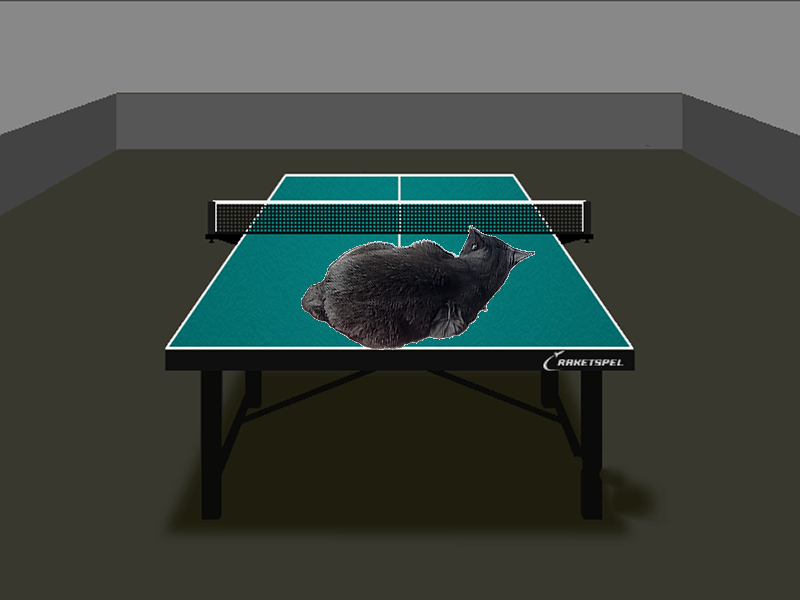
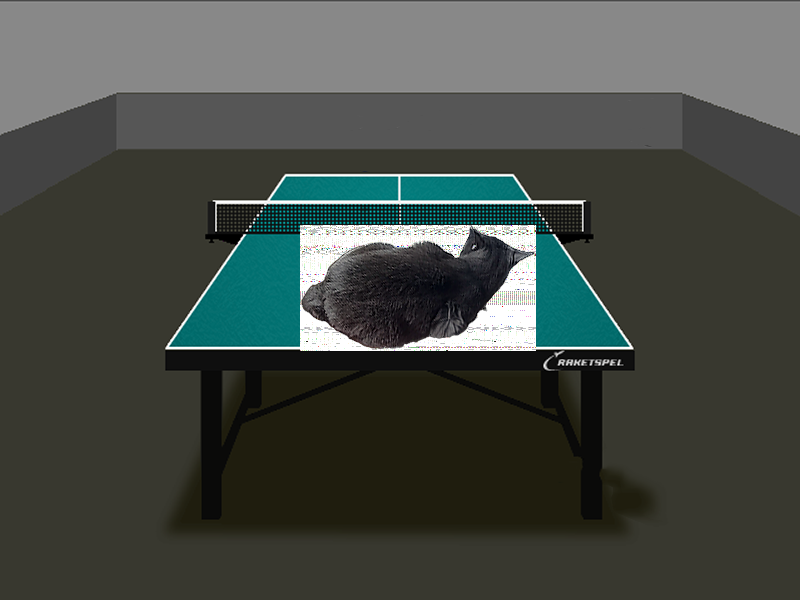
opt

Changed region(s): [[0.375, 0.36, 0.6875, 0.6]]

diff --git a/alpha.cpp b/alpha.cpp
@@ -4,51 +4,64 @@
 int alphaBlend(blend_t* blend)
 {
     if (blend == NULL) return 1;
+    
+    const unsigned char zero = 128; 
+
+    const __m128i _0   = _mm_set1_epi8(0);
+    const __m128i _255 = _mm_cvtepu8_epi16(_mm_set1_epi8(0xFF));
 
     for (int y = 0; y < blend->fr_hg; y++)
     {
-        if (y + blend->y_pos >= blend->bk_hg) break;
-
-        for (int x = 0; x < blend->fr_wd; x++)
+        if (y + blend->y_pos > blend->bk_hg) break;
+        
+        for (int x = 0; x < blend->fr_wd; x+= 4)
         {
-            if (x + blend->x_pos >= blend->bk_wd) break;
+            if (x + blend->x_pos + 3 > blend->bk_wd) break;
             
             for (int i = 0; i < 100; i++)
             {
-                unsigned int fr_clr = blend->front[x + y * blend->fr_wd];
-                unsigned int bk_clr = blend->back [x + blend->x_pos + 
-                                                  (y + blend->y_pos) * blend->bk_wd];
-                
+                __m128i fr_clr = _mm_load_si128((__m128i*) &blend->front[x + y * blend->fr_wd]);
+                __m128i bk_clr = _mm_load_si128((__m128i*) &blend->front[x + blend->x_pos + (y + blend->y_pos) * blend->bk_wd]);
 
-                unsigned char fr_al = fr_clr >> 24;
-                unsigned char bk_al = bk_clr >> 24;
+                __m128i FR     = (__m128i) _mm_movehl_ps((__m128) _0, (__m128) fr_clr);
+                __m128i BK     = (__m128i) _mm_movehl_ps((__m128) _0, (__m128) bk_clr);
                 
-                unsigned int new_clr =  bk_al << 24;
+                fr_clr = _mm_cvtepu8_epi16(fr_clr);
+                bk_clr = _mm_cvtepu8_epi16(bk_clr);
+                FR     = _mm_cvtepu8_epi16(FR);
+                BK     = _mm_cvtepu8_epi16(BK);
                 
-                for (int idx = 0; idx < 17; idx += 8)
-                {
-                    
-                    unsigned char FR_CLR = ((0xFF << idx) & fr_clr) >> idx;
-                    unsigned char BK_CLR = ((0xFF << idx) & bk_clr) >> idx;
+                static const __m128i mask = _mm_set_epi8(zero, 14, zero, 14, zero, 14, zero, 14,
+                                                         zero,  6, zero,  6, zero,  6, zero,  6); 
 
-                    new_clr += getColor(FR_CLR, BK_CLR, fr_al) << idx;
-                }
+
+                __m128i a = _mm_shuffle_epi8(fr_clr, mask); 
+                __m128i A = _mm_shuffle_epi8(FR,     mask); 
+
                 
-                blend->new_img[x + blend->x_pos + (y + blend->y_pos) * blend->bk_wd] =
-                    new_clr;
+                fr_clr = _mm_mullo_epi16(fr_clr, a);
+                FR     = _mm_mullo_epi16(FR,     A);
+                bk_clr = _mm_mullo_epi16(bk_clr, _mm_sub_epi16(_255, a));
+                BK     = _mm_mullo_epi16(BK,     _mm_sub_epi16(_255, A));
+                
+                __m128i sum = _mm_add_epi16(fr_clr, bk_clr);
+                __m128i SUM = _mm_add_epi16(FR,     BK    );
+
+                static const __m128i moveSum = _mm_set_epi8(zero, zero, zero, zero, zero, zero, zero, zero,
+                                                              15,   13,   11,   9,     7,    5,    3,    1);
+
+                sum = _mm_shuffle_epi8(sum, moveSum);
+                SUM = _mm_shuffle_epi8(SUM, moveSum);
+
+                
+                __m128i clr = (__m128i) _mm_movelh_ps((__m128) sum, (__m128) SUM);
+                
+                _mm_store_si128((__m128i*) &blend->new_img[x + blend->x_pos + (y + blend->y_pos) * blend->bk_wd], clr);
             }
         }
     }
 
     return 0;
-}
-
-
-unsigned char getColor(unsigned char fr_clr, unsigned char bk_clr, 
-                       unsigned char transp)
-{
-    return ((unsigned int) fr_clr * transp + 
-            (unsigned int) bk_clr * (255 - transp)) / 255;
 }
 
 int blendCtor(blend_t* blend, const char* front_name, const char* back_name, 

diff --git a/alpha.hpp b/alpha.hpp
@@ -7,6 +7,7 @@
 #include <SFML/Window/Keyboard.hpp>
 #include <sstream> // for std::ostringstream
 #include <stdlib.h>
+#include <immintrin.h>
 
 const int x0 = 300;
 const int y0 = 225;
@@ -50,7 +51,6 @@ int blendDtor(blend_t* blend);
 
 int isNumber(char* str);
 int alphaBlend(blend_t* blend);
-unsigned char getColor(unsigned char fr_clr, unsigned char bk_clr, unsigned char transp);
 
 int setFps(window_t* win);
 int windowCtor(window_t* win,  blend_t* blend);
